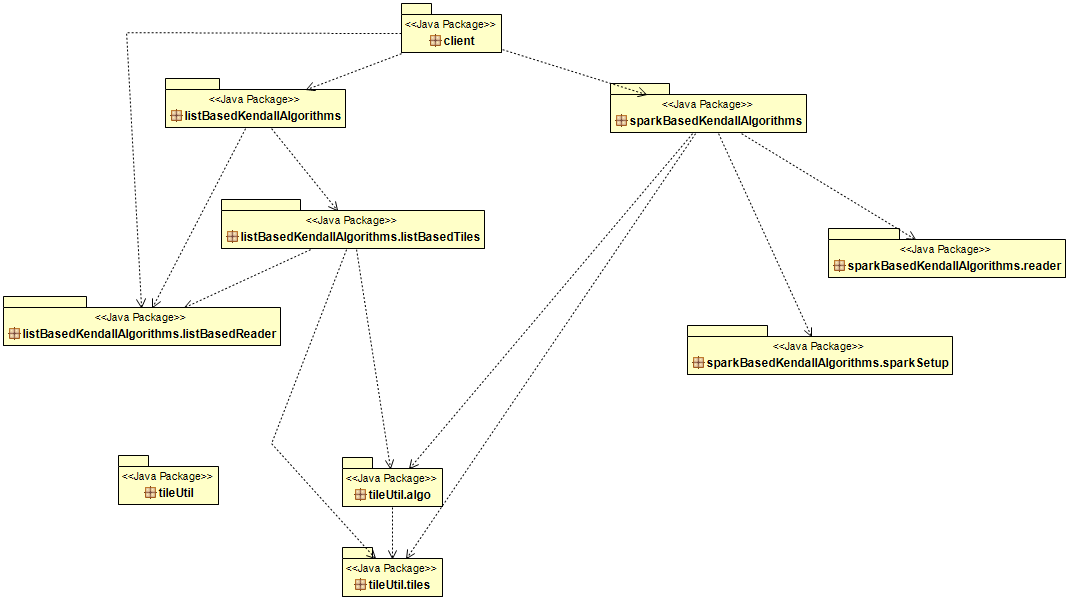
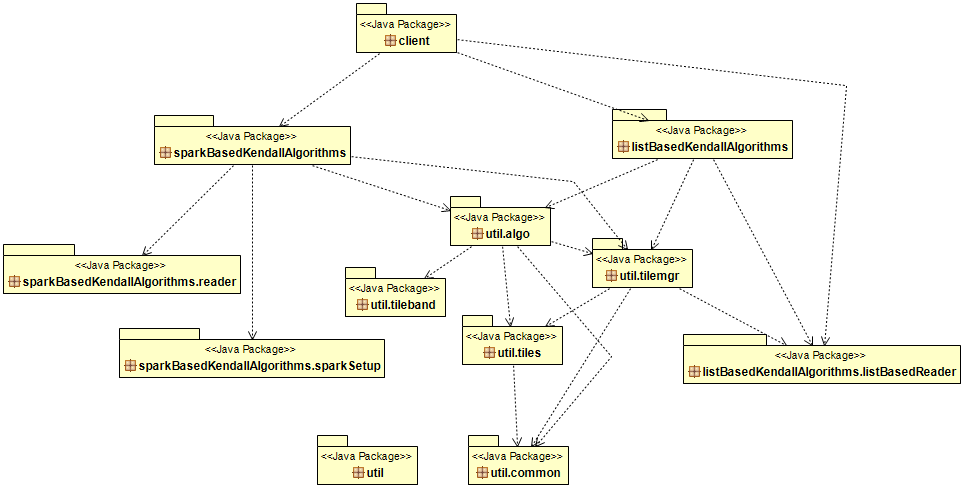
small improvements towards experiments

diff --git a/src/main/java/client/ClientV9_FullTestAll.java b/src/main/java/client/ClientV9_FullTestAll.java
@@ -9,7 +9,7 @@ import org.apache.spark.sql.AnalysisException;
 
 import java.io.IOException;
 
-public class ClientV2 {
+public class ClientV9_FullTestAll {
     public static void main(String[] args) throws IOException, AnalysisException {
 
         Reader reader = new Reader();
@@ -74,13 +74,13 @@ public class ClientV2 {
         elapsedTimeSeconds = (endTime - startTime) / 1000.0;
         printResults("Apache", filePath, apacheResult, elapsedTimeSeconds);
 
-//        /* TILES WITH LISTS*/
-//        startTime = System.currentTimeMillis();
-//        IListBasedKendallCalculator lbtbMgr = methods.createKendallCalculatorByString("ListBasedTiles");
-//        double listTileKendallResult =lbtbMgr.calculateKendall(columnPair);
-//        endTime = System.currentTimeMillis();
-//        elapsedTimeSeconds = (endTime - startTime) / 1000.0; 
-//        printResults("List Tiles", filePath, listTileKendallResult, elapsedTimeSeconds);
+        /* TILES WITH LISTS*/
+        startTime = System.currentTimeMillis();
+        IListBasedKendallCalculator lbtbMgr = methods.createKendallCalculatorByString("ListBasedTiles");
+        double listTileKendallResult =lbtbMgr.calculateKendall(columnPair);
+        endTime = System.currentTimeMillis();
+        elapsedTimeSeconds = (endTime - startTime) / 1000.0; 
+        printResults("List Tiles", filePath, listTileKendallResult, elapsedTimeSeconds);
         
         /* TILES WITH MEMORY*/
         startTime = System.currentTimeMillis();
@@ -90,6 +90,35 @@ public class ClientV2 {
         elapsedTimeSeconds = (endTime - startTime) / 1000.0; 
         printResults("Bands With Memory", filePath, bandsWithMemoryKendallResult, elapsedTimeSeconds);
         
+        /* BRUTE */
+        IListBasedKendallCalculator bruteForceTauA = methods.createKendallCalculatorByString("BruteForce");
+        startTime = System.currentTimeMillis();
+        double actualBruteForce = bruteForceTauA.calculateKendall(columnPair);
+        endTime = System.currentTimeMillis();
+        elapsedTimeSeconds = (endTime - startTime) / 1000.0;
+        printResults("Brute Force", filePath, actualBruteForce, elapsedTimeSeconds);      
+
+        /* BROPHY */
+        IListBasedKendallCalculator brophyKendallTauB = methods.createKendallCalculatorByString("Brophy");
+        startTime = System.currentTimeMillis();
+        double actualBrophy = brophyKendallTauB.calculateKendall(columnPair);
+        endTime = System.currentTimeMillis();
+        elapsedTimeSeconds = (endTime - startTime) / 1000.0;
+        printResults("Brophy", filePath, actualBrophy, elapsedTimeSeconds);
+        
+        /* Tile Implementation with SPARK and valuePairs*/
+        startTime = System.currentTimeMillis();
+        SparkBasedKendallManager sparkBasedKendallManager = new SparkBasedKendallManager();
+        sparkBasedKendallManager.loadDataset(filePath, column1, column2);
+        endTime = System.currentTimeMillis();
+        elapsedTimeSeconds = (endTime - startTime) / 1000.0;
+        System.out.println("Spark InitialSetup and Dataset loading took: " + elapsedTimeSeconds + "\n");
+
+        startTime = System.currentTimeMillis();
+        double sparkKendall = sparkBasedKendallManager.calculateKendallTau(column1, column2);
+        endTime = System.currentTimeMillis();
+        elapsedTimeSeconds = (endTime - startTime) / 1000.0;
+        printResults("Spark Kendall", filePath, sparkKendall, elapsedTimeSeconds);
     }
 
 

diff --git a/src/main/java/util/tilemgr/TilesManagerListBasedTilesWithCounters.java b/src/main/java/util/tilemgr/TilesManagerListBasedTilesWithCounters.java
@@ -12,7 +12,8 @@ import util.tiles.TileWithCounters;
 public class TilesManagerListBasedTilesWithCounters  {
 	
 	   private final ColumnPair pair;
-		protected static final boolean DEBUG_FLAG = false;
+		protected static final boolean DEBUG_FLAG = true;
+		protected static final boolean EXP_FLAG = false;
 		protected static TileWithCounters[][] tiles;
 		protected long datasetRowCount;
 		protected int numOfBinsX;
@@ -37,18 +38,19 @@ public class TilesManagerListBasedTilesWithCounters  {
 		    calculateMinMaxColumnValues();
 		    	double end = System.currentTimeMillis();
 		    	double elapsed = (end - start) / 1000.0;
-		    	if(DEBUG_FLAG) {
+		    	if(EXP_FLAG) {
 		    		System.out.println("X,Y min and max and stddev took: " + elapsed + " seconds");
-		    		System.out.println("Dataset size: " + datasetRowCount);
 		    	}
 		    	
 		    	start = System.currentTimeMillis();
 		    setupTilesArrayMetadata();
 	    		end = System.currentTimeMillis();
 	    		elapsed = (end - start) / 1000.0;
-	    		if(DEBUG_FLAG) {
+	    		if(EXP_FLAG) {
 	    			System.out.println("Tiles bin number and binWidth calculations took: " + elapsed + " seconds");
-	    			System.out.println("#SubRangesX: " + numOfBinsX + "\n#SubRangesY: " + numOfBinsY + "\nTotal tiles: " + numOfBinsX * numOfBinsY);
+	    		}
+	    		if(DEBUG_FLAG) {
+	    			System.out.println("#BinsX: " + numOfBinsX + "\n#BinsY: " + numOfBinsY + "\nTotal tiles: " + numOfBinsX * numOfBinsY);
 	    			System.out.println("RangeWidthX: " + rangeWidthX + "\n#RangeWidthY: " + rangeWidthY + "\nTotal #tuples: " + datasetRowCount);
 	    		}
 	    		
@@ -56,7 +58,7 @@ public class TilesManagerListBasedTilesWithCounters  {
 		    initializeTilesArray();
 	    		end = System.currentTimeMillis();
 	    		elapsed = (end - start) / 1000.0;
-	    		if(DEBUG_FLAG) {
+	    		if(EXP_FLAG) {
 	    			System.out.println("Tiles initialization took: " + elapsed + " seconds");
 	    		}
 		    
@@ -64,10 +66,23 @@ public class TilesManagerListBasedTilesWithCounters  {
 		    populateTiles();
 		    	end = System.currentTimeMillis();
 		    	elapsed = (end - start) / 1000.0;
-		    	if(DEBUG_FLAG) {
+	    		if(EXP_FLAG) {
 		    		System.out.println("Tiles Population took " + elapsed + " seconds\n");
 		    	}
-		    return tiles;
+	    		if(DEBUG_FLAG) {
+	    			int row, column, count = -1;
+	    			for (TileWithCounters[] rowOfTiles : tiles) {
+	    				for (TileWithCounters tile : rowOfTiles) {
+	    					if (!tile.isEmpty()) {
+	    						row = tile.getRow();
+	    						column = tile.getColumn();
+	    						count = tile.getCount();
+	    						System.err.printf("Count[%d,%d]:\t%d\n",row,column,count);
+	    					}
+	    				}
+	    			}
+	    		}
+	    	return tiles;
 		}
 
 		protected void setupTilesArrayMetadata() {
@@ -83,6 +98,7 @@ public class TilesManagerListBasedTilesWithCounters  {
 		    return (int) Math.ceil(range / rangeWidth);
 		}
 
+		//Scott's rule https://en.wikipedia.org/wiki/Scott%27s_rule
 		protected double calculateRangesWidth(double stdDev, double datasetCount) {
 			double denominator = Math.pow(datasetCount, 1.0 / 3.0);
 			double scottRuleRangeWidth = 3.49 * stdDev / denominator;		
